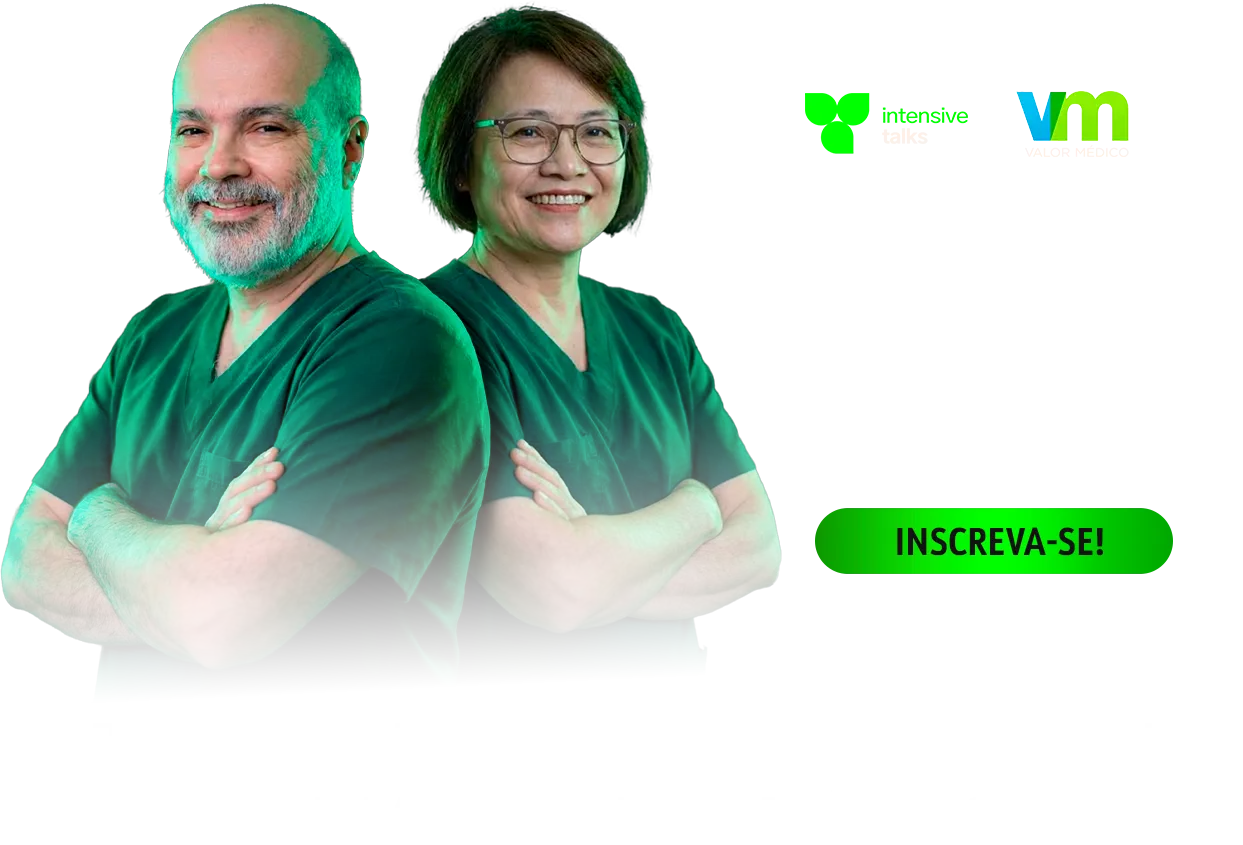
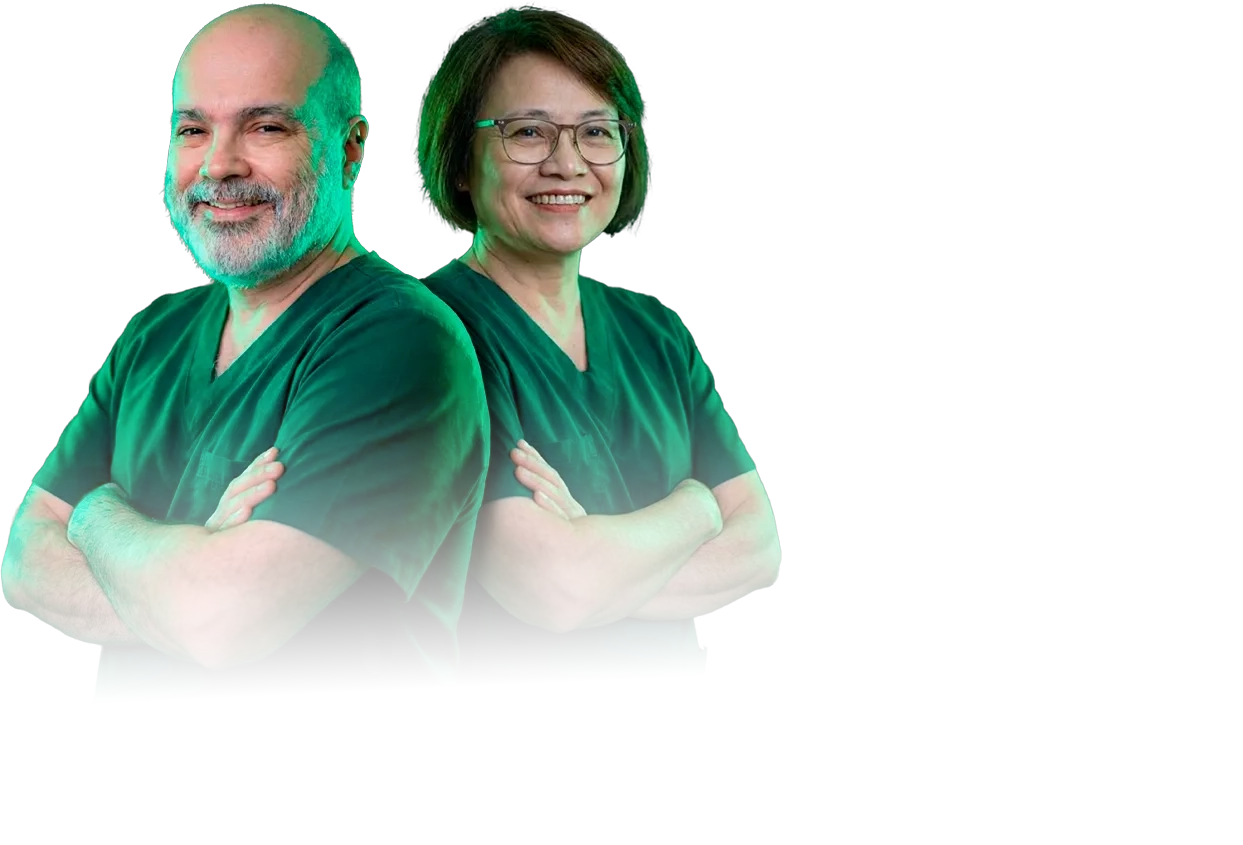
Fotos novas: medicos.webp limpa no hero + fotos individuais nos cards dos professores

Changed region(s): [[0.642, 0.5846, 0.9477, 0.6769], [0.8254, 0.0923, 0.9171, 0.1846], [0.642, 0.0923, 0.7949, 0.1846]]

diff --git a/index.html b/index.html
@@ -188,16 +188,12 @@
   #professores { position:relative; overflow:hidden; }
   #professores::before { content:''; position:absolute; right:0; top:50%; transform:translateY(-50%); width:500px; height:600px; background:radial-gradient(ellipse,rgba(46,233,111,.07) 0%,transparent 70%); pointer-events:none; }
   .profs-hd { text-align:center; margin-bottom:56px; position:relative; z-index:1; }
-  .profs-photo { position:relative; max-width:680px; margin:0 auto 48px; }
-  .profs-photo-frame {
-    position:relative; overflow:hidden;
-    background:linear-gradient(180deg,transparent 0%,rgba(46,233,111,.06) 60%,rgba(46,233,111,.12) 100%);
-    border-radius:var(--r); border:1px solid rgba(46,233,111,.15);
-  }
-  .profs-photo-frame img { width:158%; max-width:none; display:block; filter:drop-shadow(0 20px 40px rgba(0,0,0,.5)); }
   .profs-grid { display:grid; grid-template-columns:1fr 1fr; gap:20px; max-width:960px; margin:0 auto; position:relative; z-index:1; }
-  .prof-card { padding:34px 30px; background:var(--gbg); border:1px solid var(--gbd); backdrop-filter:var(--gbl); -webkit-backdrop-filter:var(--gbl); box-shadow:var(--gsw); border-radius:var(--r); transition:transform .25s,border-color .25s; }
+  .prof-card { padding:34px 30px; background:var(--gbg); border:1px solid var(--gbd); backdrop-filter:var(--gbl); -webkit-backdrop-filter:var(--gbl); box-shadow:var(--gsw); border-radius:var(--r); transition:transform .25s,border-color .25s; overflow:hidden; }
   .prof-card:hover { transform:translateY(-4px); border-color:rgba(46,233,111,.35); }
+  .prof-photo { margin:-34px -30px 26px; position:relative; }
+  .prof-photo img { width:100%; height:340px; object-fit:cover; object-position:center 12%; display:block; }
+  .prof-photo::after { content:''; position:absolute; inset:0; background:linear-gradient(180deg,transparent 55%,rgba(3,5,4,.55) 100%); pointer-events:none; }
   .prof-card-tag { font-size:11px; font-weight:700; letter-spacing:1.5px; text-transform:uppercase; color:var(--acc); margin-bottom:8px; }
   .prof-card-name { font-size:23px; font-weight:900; color:var(--white); letter-spacing:-.4px; margin-bottom:4px; }
   .prof-card-spec { font-size:13px; color:var(--acc); font-weight:600; margin-bottom:20px; }
@@ -587,15 +583,12 @@
       </p>
     </div>
 
-    <div class="profs-photo" data-r data-d="1">
-      <div class="profs-photo-frame">
-        <img src="medicos.webp" alt="Professores do Preparatório TEMI">
-      </div>
-    </div>
-
     <div class="profs-grid">
       <!-- TODO: substituir nomes e currículos reais dos professores -->
-      <div class="prof-card" data-r data-d="2">
+      <div class="prof-card" data-r data-d="1">
+        <div class="prof-photo">
+          <img src="medico-01.png" alt="Professor do Preparatório TEMI">
+        </div>
         <div class="prof-card-tag">Professor</div>
         <div class="prof-card-name">Dr. Nome do Professor</div>
         <div class="prof-card-spec">Médico Intensivista</div>
@@ -615,7 +608,10 @@
         </div>
       </div>
 
-      <div class="prof-card" data-r data-d="3">
+      <div class="prof-card" data-r data-d="2">
+        <div class="prof-photo">
+          <img src="medica-02.png" alt="Professora do Preparatório TEMI">
+        </div>
         <div class="prof-card-tag">Professora</div>
         <div class="prof-card-name">Dra. Nome da Professora</div>
         <div class="prof-card-spec">Médica Intensivista</div>
